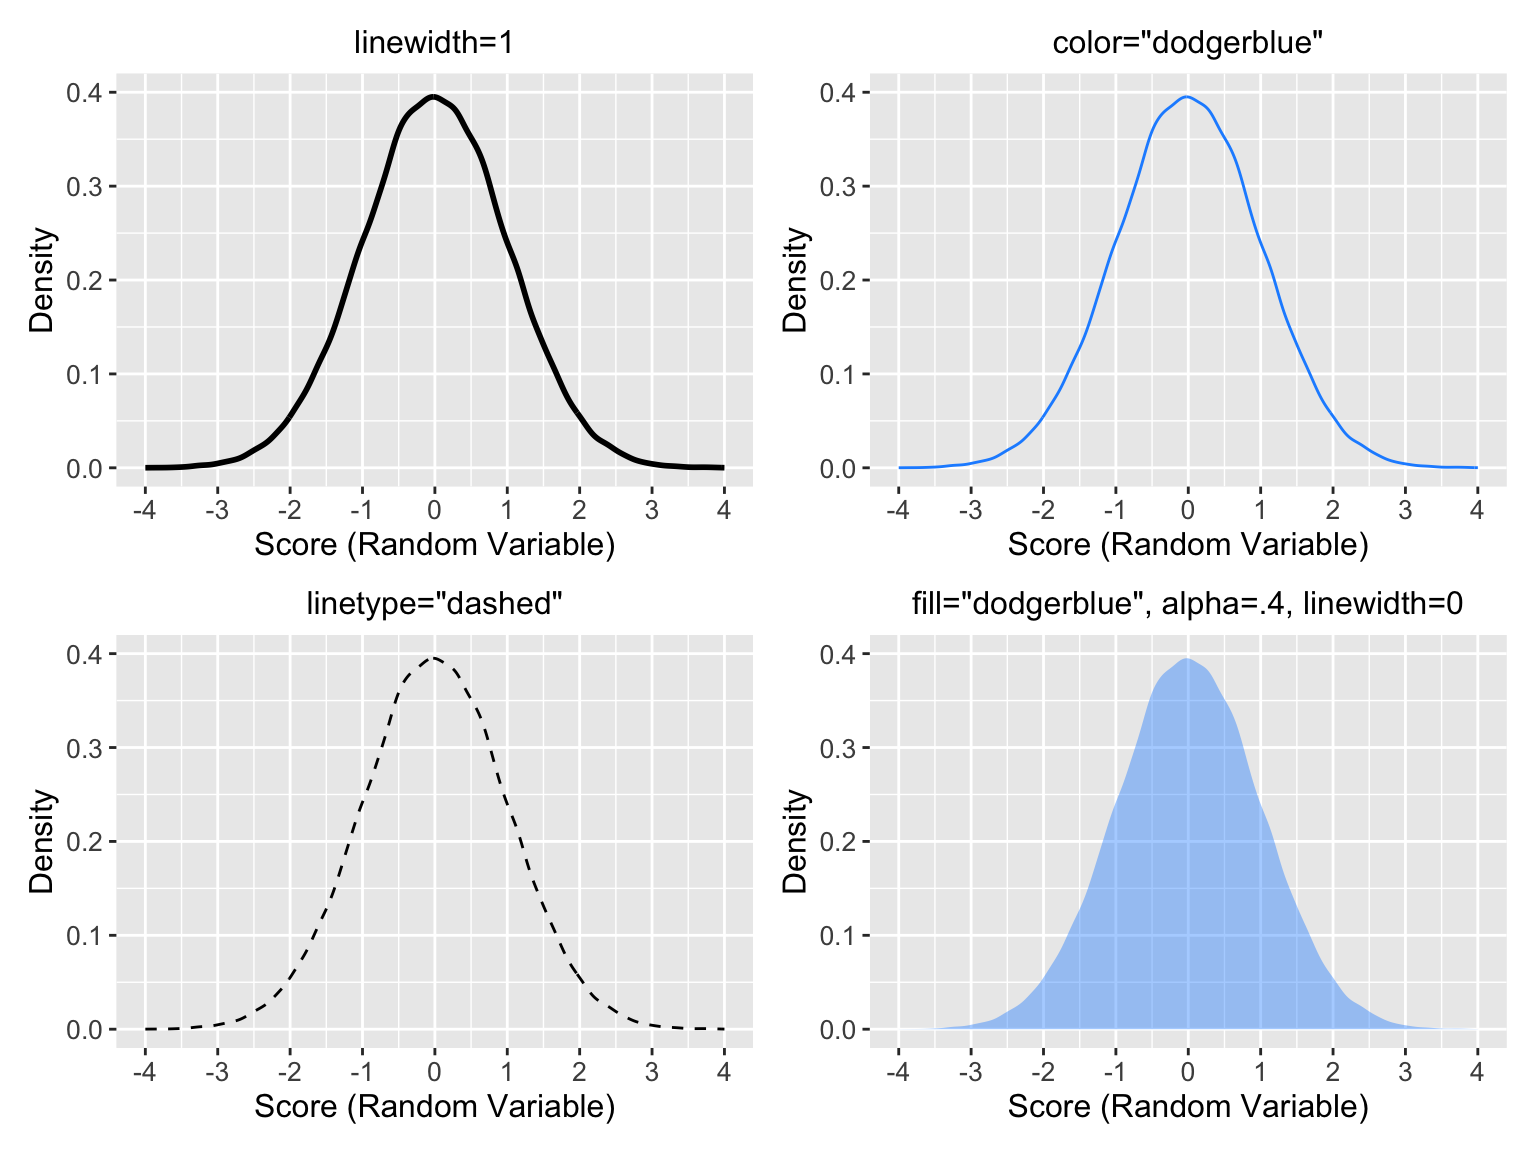
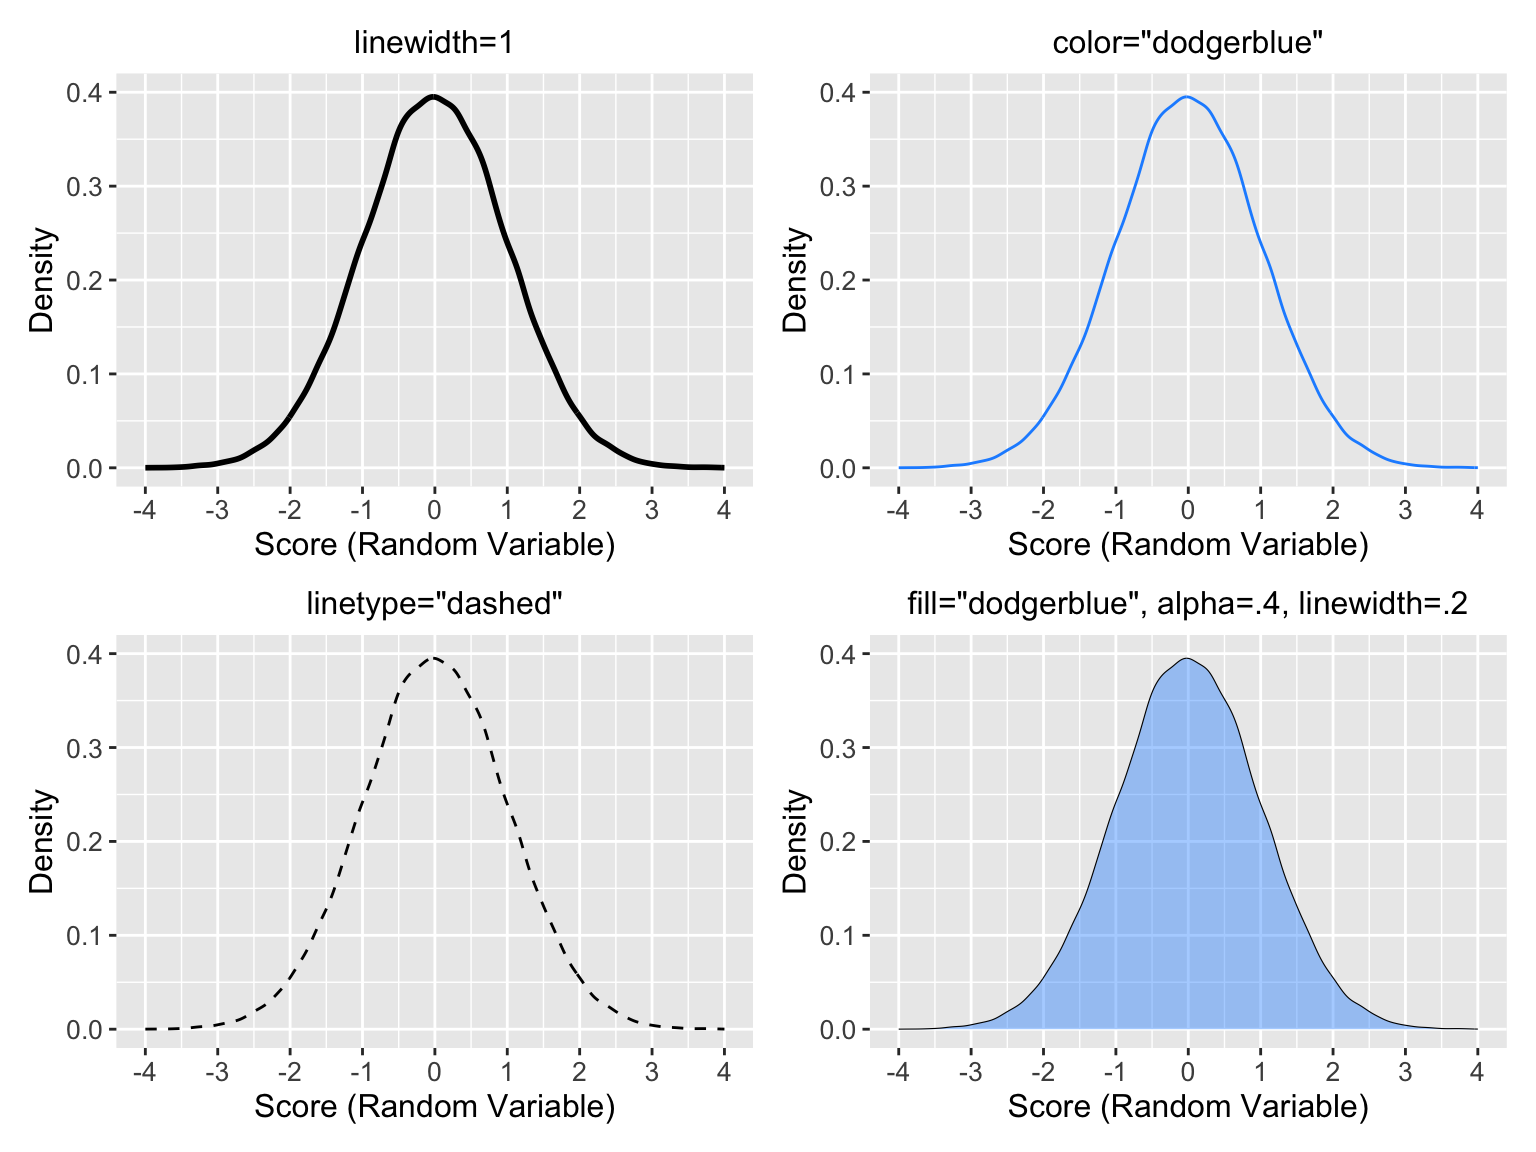
a94

Changed region(s): [[0.5938, 0.5, 0.9688, 0.5625]]

diff --git a/dataps/dataviz.html b/dataps/dataviz.html
@@ -426,8 +426,8 @@ div.csl-indent {
 <span id="cb6-35"><a href="#cb6-35" aria-hidden="true" tabindex="-1"></a></span>
 <span id="cb6-36"><a href="#cb6-36" aria-hidden="true" tabindex="-1"></a>d <span class="ot">&lt;-</span> mynorm <span class="sc">|&gt;</span> </span>
 <span id="cb6-37"><a href="#cb6-37" aria-hidden="true" tabindex="-1"></a>  <span class="fu">ggplot</span>(<span class="fu">aes</span>(<span class="at">x=</span>score)) <span class="sc">+</span> </span>
-<span id="cb6-38"><a href="#cb6-38" aria-hidden="true" tabindex="-1"></a>  <span class="fu">geom_density</span>(<span class="at">fill=</span><span class="st">"dodgerblue"</span>, <span class="at">alpha=</span>.<span class="dv">4</span>, <span class="at">linewidth=</span><span class="dv">0</span>) <span class="sc">+</span> </span>
-<span id="cb6-39"><a href="#cb6-39" aria-hidden="true" tabindex="-1"></a>  <span class="fu">labs</span>(<span class="at">title=</span><span class="st">'fill="dodgerblue", alpha=.4, linewidth=0'</span>, </span>
+<span id="cb6-38"><a href="#cb6-38" aria-hidden="true" tabindex="-1"></a>  <span class="fu">geom_density</span>(<span class="at">fill=</span><span class="st">"dodgerblue"</span>, <span class="at">alpha=</span>.<span class="dv">4</span>, <span class="at">linewidth=</span>.<span class="dv">2</span>) <span class="sc">+</span> </span>
+<span id="cb6-39"><a href="#cb6-39" aria-hidden="true" tabindex="-1"></a>  <span class="fu">labs</span>(<span class="at">title=</span><span class="st">'fill="dodgerblue", alpha=.4, linewidth=.2'</span>, </span>
 <span id="cb6-40"><a href="#cb6-40" aria-hidden="true" tabindex="-1"></a>       <span class="at">x=</span><span class="st">"Score (Random Variable)"</span>, <span class="at">y=</span><span class="st">"Density"</span>) <span class="sc">+</span></span>
 <span id="cb6-41"><a href="#cb6-41" aria-hidden="true" tabindex="-1"></a>  <span class="fu">scale_x_continuous</span>(<span class="at">limits =</span> <span class="fu">c</span>(<span class="sc">-</span><span class="dv">4</span>, <span class="dv">4</span>), <span class="at">breaks =</span> <span class="fu">seq</span>(<span class="sc">-</span><span class="dv">4</span>, <span class="dv">4</span>, <span class="dv">1</span>)) <span class="sc">+</span></span>
 <span id="cb6-42"><a href="#cb6-42" aria-hidden="true" tabindex="-1"></a>  <span class="fu">scale_y_continuous</span>(<span class="at">limits =</span> <span class="fu">c</span>(<span class="dv">0</span>, .<span class="dv">4</span>), <span class="at">breaks =</span> <span class="fu">seq</span>(<span class="dv">0</span>, .<span class="dv">4</span>, .<span class="dv">1</span>)) <span class="sc">+</span></span>
@@ -448,28 +448,80 @@ div.csl-indent {
 </section>
 <section id="general-look-and-theme" class="level3" data-number="4.1.3">
 <h3 data-number="4.1.3" class="anchored" data-anchor-id="general-look-and-theme"><span class="header-section-number">4.1.3</span> General Look and “Theme”</h3>
+<div class="cell" data-layout-align="center">
+<div class="sourceCode cell-code" id="cb7"><pre class="sourceCode r code-with-copy"><code class="sourceCode r"><span id="cb7-1"><a href="#cb7-1" aria-hidden="true" tabindex="-1"></a>mynorm <span class="sc">|&gt;</span> </span>
+<span id="cb7-2"><a href="#cb7-2" aria-hidden="true" tabindex="-1"></a>  <span class="fu">ggplot</span>(<span class="fu">aes</span>(<span class="at">x=</span>score)) <span class="sc">+</span> </span>
+<span id="cb7-3"><a href="#cb7-3" aria-hidden="true" tabindex="-1"></a>  <span class="fu">geom_density</span>(<span class="at">fill=</span><span class="st">"dodgerblue"</span>, <span class="at">alpha=</span>.<span class="dv">4</span>, <span class="at">linewidth=</span>.<span class="dv">2</span>) <span class="sc">+</span> </span>
+<span id="cb7-4"><a href="#cb7-4" aria-hidden="true" tabindex="-1"></a>  <span class="fu">labs</span>(<span class="at">title=</span><span class="st">"theme_minimal()"</span>, </span>
+<span id="cb7-5"><a href="#cb7-5" aria-hidden="true" tabindex="-1"></a>       <span class="at">x=</span><span class="st">"Score (Random Variable)"</span>, <span class="at">y=</span><span class="st">"Density"</span>) <span class="sc">+</span></span>
+<span id="cb7-6"><a href="#cb7-6" aria-hidden="true" tabindex="-1"></a>  <span class="fu">scale_x_continuous</span>(<span class="at">limits =</span> <span class="fu">c</span>(<span class="sc">-</span><span class="dv">4</span>, <span class="dv">4</span>), <span class="at">breaks =</span> <span class="fu">seq</span>(<span class="sc">-</span><span class="dv">4</span>, <span class="dv">4</span>, <span class="dv">1</span>)) <span class="sc">+</span></span>
+<span id="cb7-7"><a href="#cb7-7" aria-hidden="true" tabindex="-1"></a>  <span class="fu">scale_y_continuous</span>(<span class="at">limits =</span> <span class="fu">c</span>(<span class="dv">0</span>, .<span class="dv">4</span>), <span class="at">breaks =</span> <span class="fu">seq</span>(<span class="dv">0</span>, .<span class="dv">4</span>, .<span class="dv">1</span>)) <span class="sc">+</span></span>
+<span id="cb7-8"><a href="#cb7-8" aria-hidden="true" tabindex="-1"></a>  <span class="fu">theme_minimal</span>() <span class="sc">+</span></span>
+<span id="cb7-9"><a href="#cb7-9" aria-hidden="true" tabindex="-1"></a>  <span class="fu">theme</span>(<span class="at">plot.title =</span> <span class="fu">element_text</span>(<span class="at">hjust =</span> <span class="fl">0.5</span>, <span class="at">size=</span><span class="dv">12</span>), </span>
+<span id="cb7-10"><a href="#cb7-10" aria-hidden="true" tabindex="-1"></a>        <span class="at">axis.title =</span> <span class="fu">element_text</span>(<span class="at">size =</span> <span class="dv">12</span>),  </span>
+<span id="cb7-11"><a href="#cb7-11" aria-hidden="true" tabindex="-1"></a>        <span class="at">axis.text  =</span> <span class="fu">element_text</span>(<span class="at">size =</span> <span class="dv">10</span>)) </span></code><button title="Copy to Clipboard" class="code-copy-button"><i class="bi"></i></button></pre></div>
+<div class="cell-output-display">
+<div class="quarto-figure quarto-figure-center">
+<figure class="figure">
+<p><img src="dataviz_files/figure-html/unnamed-chunk-7-1.png" class="img-fluid quarto-figure quarto-figure-center figure-img" width="480"></p>
+</figure>
+</div>
+</div>
+</div>
+<p>Make sure to put <code>theme_minimal()</code> before <code>theme()</code>.</p>
+<div class="cell" data-layout-align="center">
+<div class="cell-output-display">
+<div class="quarto-figure quarto-figure-center">
+<figure class="figure">
+<p><img src="dataviz_files/figure-html/unnamed-chunk-8-1.png" class="img-fluid quarto-figure quarto-figure-center figure-img" width="768"></p>
+</figure>
+</div>
+</div>
+</div>
+<p>Take out gridlines:</p>
+<div class="cell" data-layout-align="center">
+<div class="sourceCode cell-code" id="cb8"><pre class="sourceCode r code-with-copy"><code class="sourceCode r"><span id="cb8-1"><a href="#cb8-1" aria-hidden="true" tabindex="-1"></a>mynorm <span class="sc">|&gt;</span> </span>
+<span id="cb8-2"><a href="#cb8-2" aria-hidden="true" tabindex="-1"></a>  <span class="fu">ggplot</span>(<span class="fu">aes</span>(<span class="at">x=</span>score)) <span class="sc">+</span> </span>
+<span id="cb8-3"><a href="#cb8-3" aria-hidden="true" tabindex="-1"></a>  <span class="fu">geom_density</span>(<span class="at">fill=</span><span class="st">"dodgerblue"</span>, <span class="at">alpha=</span>.<span class="dv">4</span>, <span class="at">linewidth=</span>.<span class="dv">2</span>) <span class="sc">+</span> </span>
+<span id="cb8-4"><a href="#cb8-4" aria-hidden="true" tabindex="-1"></a>  <span class="fu">labs</span>(<span class="at">title=</span><span class="st">"No Gridlines, theme_bw()"</span>, </span>
+<span id="cb8-5"><a href="#cb8-5" aria-hidden="true" tabindex="-1"></a>       <span class="at">x=</span><span class="st">"Score (Random Variable)"</span>, <span class="at">y=</span><span class="st">"Density"</span>) <span class="sc">+</span></span>
+<span id="cb8-6"><a href="#cb8-6" aria-hidden="true" tabindex="-1"></a>  <span class="fu">scale_x_continuous</span>(<span class="at">limits =</span> <span class="fu">c</span>(<span class="sc">-</span><span class="dv">4</span>, <span class="dv">4</span>), <span class="at">breaks =</span> <span class="fu">seq</span>(<span class="sc">-</span><span class="dv">4</span>, <span class="dv">4</span>, <span class="dv">1</span>)) <span class="sc">+</span></span>
+<span id="cb8-7"><a href="#cb8-7" aria-hidden="true" tabindex="-1"></a>  <span class="fu">scale_y_continuous</span>(<span class="at">limits =</span> <span class="fu">c</span>(<span class="dv">0</span>, .<span class="dv">4</span>), <span class="at">breaks =</span> <span class="fu">seq</span>(<span class="dv">0</span>, .<span class="dv">4</span>, .<span class="dv">1</span>)) <span class="sc">+</span></span>
+<span id="cb8-8"><a href="#cb8-8" aria-hidden="true" tabindex="-1"></a>  <span class="fu">theme_bw</span>() <span class="sc">+</span></span>
+<span id="cb8-9"><a href="#cb8-9" aria-hidden="true" tabindex="-1"></a>  <span class="fu">theme</span>(<span class="at">plot.title =</span> <span class="fu">element_text</span>(<span class="at">hjust =</span> <span class="fl">0.5</span>, <span class="at">size=</span><span class="dv">12</span>), </span>
+<span id="cb8-10"><a href="#cb8-10" aria-hidden="true" tabindex="-1"></a>        <span class="at">axis.title =</span> <span class="fu">element_text</span>(<span class="at">size =</span> <span class="dv">12</span>),  </span>
+<span id="cb8-11"><a href="#cb8-11" aria-hidden="true" tabindex="-1"></a>        <span class="at">axis.text  =</span> <span class="fu">element_text</span>(<span class="at">size =</span> <span class="dv">10</span>), </span>
+<span id="cb8-12"><a href="#cb8-12" aria-hidden="true" tabindex="-1"></a>        <span class="at">panel.grid =</span> <span class="fu">element_blank</span>()) </span></code><button title="Copy to Clipboard" class="code-copy-button"><i class="bi"></i></button></pre></div>
+<div class="cell-output-display">
+<div class="quarto-figure quarto-figure-center">
+<figure class="figure">
+<p><img src="dataviz_files/figure-html/unnamed-chunk-9-1.png" class="img-fluid quarto-figure quarto-figure-center figure-img" width="480"></p>
+</figure>
+</div>
+</div>
+</div>
 </section>
 </section>
 <section id="univariate-graphical-displays" class="level2" data-number="4.2">
 <h2 data-number="4.2" class="anchored" data-anchor-id="univariate-graphical-displays"><span class="header-section-number">4.2</span> Univariate Graphical Displays</h2>
 <div class="cell">
-<div class="sourceCode cell-code" id="cb7"><pre class="sourceCode r code-with-copy"><code class="sourceCode r"><span id="cb7-1"><a href="#cb7-1" aria-hidden="true" tabindex="-1"></a><span class="fu">set.seed</span>(<span class="dv">123</span>)</span>
-<span id="cb7-2"><a href="#cb7-2" aria-hidden="true" tabindex="-1"></a>mynorm2 <span class="ot">&lt;-</span> <span class="fu">data.frame</span>(<span class="at">id=</span><span class="dv">1</span><span class="sc">:</span><span class="dv">100000</span>) <span class="sc">|&gt;</span> </span>
-<span id="cb7-3"><a href="#cb7-3" aria-hidden="true" tabindex="-1"></a>  <span class="fu">mutate</span>(<span class="at">score=</span><span class="fu">rnorm</span>(<span class="at">n =</span> <span class="dv">100000</span>, <span class="at">mean =</span> <span class="dv">0</span>, <span class="at">sd =</span> <span class="dv">3</span>))</span>
-<span id="cb7-4"><a href="#cb7-4" aria-hidden="true" tabindex="-1"></a></span>
-<span id="cb7-5"><a href="#cb7-5" aria-hidden="true" tabindex="-1"></a>a <span class="ot">&lt;-</span> mynorm <span class="sc">|&gt;</span> </span>
-<span id="cb7-6"><a href="#cb7-6" aria-hidden="true" tabindex="-1"></a>  <span class="fu">ggplot</span>(<span class="fu">aes</span>(<span class="at">x=</span>score)) <span class="sc">+</span> </span>
-<span id="cb7-7"><a href="#cb7-7" aria-hidden="true" tabindex="-1"></a>  <span class="fu">geom_density</span>() <span class="sc">+</span> <span class="fu">xlim</span>(<span class="sc">-</span><span class="dv">8</span>, <span class="dv">8</span>)</span>
-<span id="cb7-8"><a href="#cb7-8" aria-hidden="true" tabindex="-1"></a></span>
-<span id="cb7-9"><a href="#cb7-9" aria-hidden="true" tabindex="-1"></a>b<span class="ot">&lt;-</span> mynorm2 <span class="sc">|&gt;</span> </span>
-<span id="cb7-10"><a href="#cb7-10" aria-hidden="true" tabindex="-1"></a>  <span class="fu">ggplot</span>(<span class="fu">aes</span>(<span class="at">x=</span>score)) <span class="sc">+</span> </span>
-<span id="cb7-11"><a href="#cb7-11" aria-hidden="true" tabindex="-1"></a>  <span class="fu">geom_density</span>() <span class="sc">+</span> <span class="fu">xlim</span>(<span class="sc">-</span><span class="dv">8</span>, <span class="dv">8</span>)</span>
-<span id="cb7-12"><a href="#cb7-12" aria-hidden="true" tabindex="-1"></a></span>
-<span id="cb7-13"><a href="#cb7-13" aria-hidden="true" tabindex="-1"></a>a <span class="sc">+</span> b <span class="sc">+</span> <span class="fu">plot_layout</span>(<span class="at">ncol =</span> <span class="dv">2</span>)</span></code><button title="Copy to Clipboard" class="code-copy-button"><i class="bi"></i></button></pre></div>
+<div class="sourceCode cell-code" id="cb9"><pre class="sourceCode r code-with-copy"><code class="sourceCode r"><span id="cb9-1"><a href="#cb9-1" aria-hidden="true" tabindex="-1"></a><span class="fu">set.seed</span>(<span class="dv">123</span>)</span>
+<span id="cb9-2"><a href="#cb9-2" aria-hidden="true" tabindex="-1"></a>mynorm2 <span class="ot">&lt;-</span> <span class="fu">data.frame</span>(<span class="at">id=</span><span class="dv">1</span><span class="sc">:</span><span class="dv">100000</span>) <span class="sc">|&gt;</span> </span>
+<span id="cb9-3"><a href="#cb9-3" aria-hidden="true" tabindex="-1"></a>  <span class="fu">mutate</span>(<span class="at">score=</span><span class="fu">rnorm</span>(<span class="at">n =</span> <span class="dv">100000</span>, <span class="at">mean =</span> <span class="dv">0</span>, <span class="at">sd =</span> <span class="dv">3</span>))</span>
+<span id="cb9-4"><a href="#cb9-4" aria-hidden="true" tabindex="-1"></a></span>
+<span id="cb9-5"><a href="#cb9-5" aria-hidden="true" tabindex="-1"></a>a <span class="ot">&lt;-</span> mynorm <span class="sc">|&gt;</span> </span>
+<span id="cb9-6"><a href="#cb9-6" aria-hidden="true" tabindex="-1"></a>  <span class="fu">ggplot</span>(<span class="fu">aes</span>(<span class="at">x=</span>score)) <span class="sc">+</span> </span>
+<span id="cb9-7"><a href="#cb9-7" aria-hidden="true" tabindex="-1"></a>  <span class="fu">geom_density</span>() <span class="sc">+</span> <span class="fu">xlim</span>(<span class="sc">-</span><span class="dv">8</span>, <span class="dv">8</span>)</span>
+<span id="cb9-8"><a href="#cb9-8" aria-hidden="true" tabindex="-1"></a></span>
+<span id="cb9-9"><a href="#cb9-9" aria-hidden="true" tabindex="-1"></a>b<span class="ot">&lt;-</span> mynorm2 <span class="sc">|&gt;</span> </span>
+<span id="cb9-10"><a href="#cb9-10" aria-hidden="true" tabindex="-1"></a>  <span class="fu">ggplot</span>(<span class="fu">aes</span>(<span class="at">x=</span>score)) <span class="sc">+</span> </span>
+<span id="cb9-11"><a href="#cb9-11" aria-hidden="true" tabindex="-1"></a>  <span class="fu">geom_density</span>() <span class="sc">+</span> <span class="fu">xlim</span>(<span class="sc">-</span><span class="dv">8</span>, <span class="dv">8</span>)</span>
+<span id="cb9-12"><a href="#cb9-12" aria-hidden="true" tabindex="-1"></a></span>
+<span id="cb9-13"><a href="#cb9-13" aria-hidden="true" tabindex="-1"></a>a <span class="sc">+</span> b <span class="sc">+</span> <span class="fu">plot_layout</span>(<span class="at">ncol =</span> <span class="dv">2</span>)</span></code><button title="Copy to Clipboard" class="code-copy-button"><i class="bi"></i></button></pre></div>
 <div class="cell-output-display">
 <div>
 <figure class="figure">
-<p><img src="dataviz_files/figure-html/unnamed-chunk-7-1.png" class="img-fluid figure-img" width="768"></p>
+<p><img src="dataviz_files/figure-html/unnamed-chunk-10-1.png" class="img-fluid figure-img" width="768"></p>
 </figure>
 </div>
 </div>
